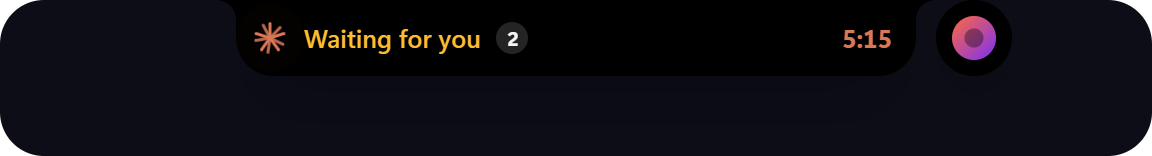
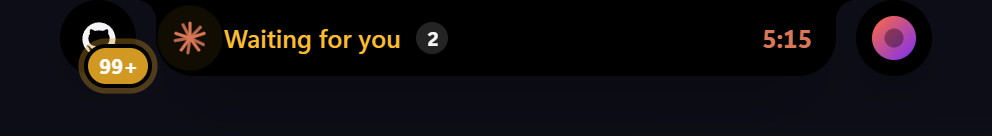
📝 update README.md

diff --git a/README.md b/README.md
@@ -4,17 +4,54 @@
 
 # Dynamic Island for Windows
 
-An iPhone/MacOS-style Dynamic Island that lives at the top of your Windows desktop — showing what's playing and what your AI coding agents are up to.
+An iPhone/macOS-style Dynamic Island for the top of your Windows desktop. It shows what's playing, what your AI coding agents are doing, your notifications and more, and stays out of the way the rest of the time.
 
 [**Download the latest release**](https://github.com/HeyyCzer/windows-dynamic-island/releases/latest)
 
-<img src="docs/screenshots/compact.png" width="576" alt="Compact island showing a Claude Code session waiting for permission" />
+<img src="docs/screenshots/compact.png" width="576" alt="Compact island: a Claude Code session waiting for permission, with music and GitHub bubbles" />
 
 </div>
 
+## Highlights
+
+- 🤖 **Your Claude Code sessions, live.** Which session is working, which one is waiting for your permission, and how much of your plan you've used, without switching windows.
+- 🎵 **Music from any player.** Spotify, browsers, Apple Music: track, artwork, controls and a visualizer. A YouTube video plays muted right in the island, and **Pin** pops it out into a small floating window.
+- 💬 **Ask Claude from anywhere.** Press **Ctrl+Alt+Space** and type. It uses your Claude Code login, so no API key is needed, and it can attach a screenshot of the window you were in.
+- 🧩 **As many modules as you want, without clutter.** The modules you pin sit in the tab bar and the rest are one click away in the launcher. Drag to reorder them or turn them off.
+- 🎨 **Two looks with lots of options.** It can be a plain black notch or a floating pill with a gradient rim. See [Make it yours](#make-it-yours).
+- 🪶 **Stays out of the way.** It hides during fullscreen games and videos, expands on hover, and the mouse wheel flips through the tabs. Click the tray icon and it falls into a black hole until you call it back.
+
+<p align="center">
+  <img src="docs/screenshots/agents.png" width="620" alt="AI Agents panel: plan limits, tokens today, 7-day chart and live sessions" />
+</p>
+
+## Make it yours
+
+Not into the colorful look? You don't have to use it. **Settings → Appearance** has two styles:
+
+- **Dynamic Island** (default): a black notch hanging from the top edge, with named tabs. No color unless you want it.
+- **Windows Island**: a floating pill that shows the time at rest and has icon tabs at the bottom. Its rim can be a subtle hairline, a single gray, a preset gradient (Apple Intelligence, Aurora, Sunset, Ocean, Claude, Neon, Mono) or two colors of your own. You can pick a thin, medium or thick rim, and turn the moving gradient and the glow on or off.
+
+<table align="center">
+  <tr>
+    <td align="center"><img src="docs/screenshots/look-dynamic.png" width="380" alt="Dynamic Island style" /><br /><sub>Dynamic Island</sub></td>
+    <td align="center"><img src="docs/screenshots/look-windows-classic.png" width="380" alt="Windows Island with the classic hairline" /><br /><sub>Windows Island · classic</sub></td>
+  </tr>
+  <tr>
+    <td align="center"><img src="docs/screenshots/look-windows-mono.png" width="380" alt="Windows Island with a thin mono rim" /><br /><sub>Windows Island · thin mono</sub></td>
+    <td align="center"><img src="docs/screenshots/look-windows-aurora.png" width="380" alt="Windows Island with the Aurora gradient and glow" /><br /><sub>Windows Island · Aurora + glow</sub></td>
+  </tr>
+</table>
+
+<p align="center">
+  <img src="docs/screenshots/windows.png" width="560" alt="Windows Island style, expanded on the music player with the Apple Intelligence rim" />
+  <br />
+  <img src="docs/screenshots/settings-appearance.png" width="560" alt="Appearance settings: style, border presets, thickness" />
+</p>
+
 ## Features
 
-**Music** — works with Spotify and anything that shows up in Windows' media controls (browsers, Apple Music, VLC…).
+**Music**: works with Spotify and anything that shows up in Windows' media controls (browsers, Apple Music, VLC…).
 
 - Current track and artist right in the compact island
 - Album art, title, artist and a live progress bar you can click to seek
@@ -25,59 +62,63 @@ An iPhone/MacOS-style Dynamic Island that lives at the top of your Windows deskt
 <p align="center">
   <img src="docs/screenshots/compact-music.png" width="480" alt="Compact island showing the current track and artist" />
   <br />
-  <img src="docs/screenshots/music.png" width="700" alt="Expanded music panel" />
+  <img src="docs/screenshots/music.png" width="620" alt="Expanded music panel" />
 </p>
 
-**AI Agents** — live status of your [Claude Code](https://claude.com/claude-code) sessions.
+**AI Agents**: live status of your [Claude Code](https://claude.com/claude-code) sessions.
 
-- What each session is doing right now (editing a file, running a command, waiting for permission…) with a turn timer
+- What each session is doing right now (editing a file, running a command, waiting for permission…), with a turn timer
+- Each session shows its last prompt, so two sessions in the same project are easy to tell apart
 - Plan usage limits (5-hour session and weekly) with reset countdowns
-- Tokens used today, plus a 7-day chart and the last 5 hours from the local transcripts
-- Optionally pops open when an agent needs your attention or finishes, with how its reply starts
+- Tokens and responses today, plus a 7-day chart and the last 5 hours from the local transcripts
+- Optionally pops open when an agent needs you, finishes (showing how its reply starts) or your limits reset
 - Click a session to open its project in VS Code
 
-<p align="center">
-  <img src="docs/screenshots/agents.png" width="700" alt="Expanded AI Agents panel with Claude Code sessions" />
-</p>
-
-**GitHub** — open issue counts for the repositories you follow.
-
-- A side bubble next to the island with the total, and a panel with each repo and its newest issue
-- Optionally pops open when someone opens a new issue
-- Works anonymously for public repos; uses your GitHub CLI login automatically, or a token kept in the Windows Credential Manager for private repos
-
-**Ask Claude** — a conversation with Claude right in the island, using your Claude Code login (no API key).
+**Ask Claude**: a conversation with Claude right in the island, using your Claude Code login (no API key).
 
 - **Ctrl+Alt+Space** opens it from anywhere (Ctrl+Shift+Space if another app took it); **Esc** gives the keyboard back
 - The answer streams in; if you leave, the island tells you when Claude answered
 - 📷 attaches a screenshot of the window you were using; files dropped on it (or sent from the shelf) become attachments
 - Runs `claude -p` headless with hooks off, so these chats don't show up as sessions. Read-only tools and web search work; for edits it suggests opening Claude Code
 
-**Notifications** — WhatsApp, Teams, Outlook, Discord… mirrored from Windows: each new one pops open with the app's icon, and the tab keeps the recent ones (click to open the app). Windows only lets registered apps read notifications, so **Settings → Notifications → Enable** registers the island once as a sparse package and restarts it; this needs Windows Developer Mode, since the registration isn't signed.
+**Launcher and tabs**: the grid button in the tab bar opens every module as a tile. In **Settings → Modules** you can drag modules to reorder the tabs, choose which ones sit in the tab bar and which stay in the launcher, and turn them on or off. A busy module shows up in the bar even when it isn't pinned, and the island reopens on the last tab you used if you come back within a few minutes.
 
-**Live Activities** — short alerts and ongoing activities:
+<p align="center">
+  <img src="docs/screenshots/launcher.png" width="560" alt="Launcher with every module as a tile" />
+</p>
 
-- Volume level bar, charger plugged in/out and low battery, Bluetooth headphones connecting (with their battery) and running low
+**Clock & calendar**: the time, a month calendar (scroll or use the arrows to change months), the week number, and how far away a day is when you click it.
+
+<p align="center">
+  <img src="docs/screenshots/calendar.png" width="560" alt="Clock and month calendar" />
+</p>
+
+**Shelf**: drag files or folders onto the island and it keeps them (by reference) until you drag them out to another app. Double-click opens a file, and 💬 asks Claude about it.
+
+<p align="center">
+  <img src="docs/screenshots/shelf.png" width="560" alt="Shelf holding a PDF, a folder and a picture" />
+</p>
+
+**Notifications**: WhatsApp, Teams, Outlook, Discord and other apps' notifications, mirrored from Windows. Each new one pops open with the app's icon, and the tab keeps the recent ones (click one to open its app). Windows only lets registered apps read notifications, so **Settings → Modules → Notifications → Enable** registers the island once as a sparse package and restarts it. This needs Windows Developer Mode, since the registration isn't signed.
+
+**GitHub**: open issue counts for the repositories you follow.
+
+- A side bubble next to the island with the total, and a panel with each repo and its newest issue
+- Optionally pops open when someone opens a new issue
+- Works anonymously for public repos; uses your GitHub CLI login automatically, or a token kept in the Windows Credential Manager for private repos
+
+**Live Activities**: short alerts and ongoing activities:
+
+- Volume level bar, charger plugged in/out and low battery (laptops only), Bluetooth headphones connecting (with their battery) and running low
 - Anything a script or app sends through the [local API](#local-api) (downloads, timers, builds…)
-
-**Shelf** — drag files or folders onto the island and it keeps them (by reference) until you drag them out to another app; double-click opens, 💬 asks Claude about one.
-
-**Two looks** — **Settings → Appearance** switches between:
-
-- **Dynamic Island** (default): hangs from the top edge like a notch, tabs with names
-- **Windows Island**: a floating pill with a clock at rest, tabs at the bottom and an optional gradient rim (presets like Apple Intelligence, Aurora, Sunset, or two colors of your own; thickness, moving gradient, glow)
 
 **And also**
 
-- Expands on hover (or click), collapses when you leave; the mouse wheel flips through the tabs
-- Click the tray icon and the island falls into a black hole (click again to bring it back); right-click for the menu
-- A clock tab with the date and the week
-- Hides itself while a game, video or app is fullscreen
 - Starts with Windows, lives in the tray, checks for updates
 - English and Portuguese (Brazil), following your system language by default
 
 <p align="center">
-  <img src="docs/screenshots/settings.png" width="640" alt="Settings window, general page" />
+  <img src="docs/screenshots/settings.png" width="620" alt="Settings window, Modules page: reorder, tab bar or launcher, on/off" />
 </p>
 
 ## Install
@@ -89,7 +130,7 @@ Requires Windows 10 or 11 (WebView2 is installed automatically if missing).
 
 ### Claude Code integration
 
-Open **Settings → AI Agents → Claude Code integration → Enable**. This adds HTTP hooks (live status) and a statusline bridge to `~/.claude/settings.json`; a backup is written before every change, and your existing statusline keeps working. Restart Claude Code sessions that were already open. Without it, the island still picks up sessions from Claude Code's transcripts, just with less detail.
+Open **Settings → Modules → AI Agents → Claude Code integration → Enable**. This adds HTTP hooks (live status) and a statusline bridge to `~/.claude/settings.json`; a backup is written before every change, and your existing statusline keeps working. Restart Claude Code sessions that were already open. Without it, the island still picks up sessions from Claude Code's transcripts, just with less detail.
 
 <p align="center">
   <img src="docs/screenshots/settings-agents.png" width="640" alt="AI Agents settings with the Claude Code integration enabled" />
